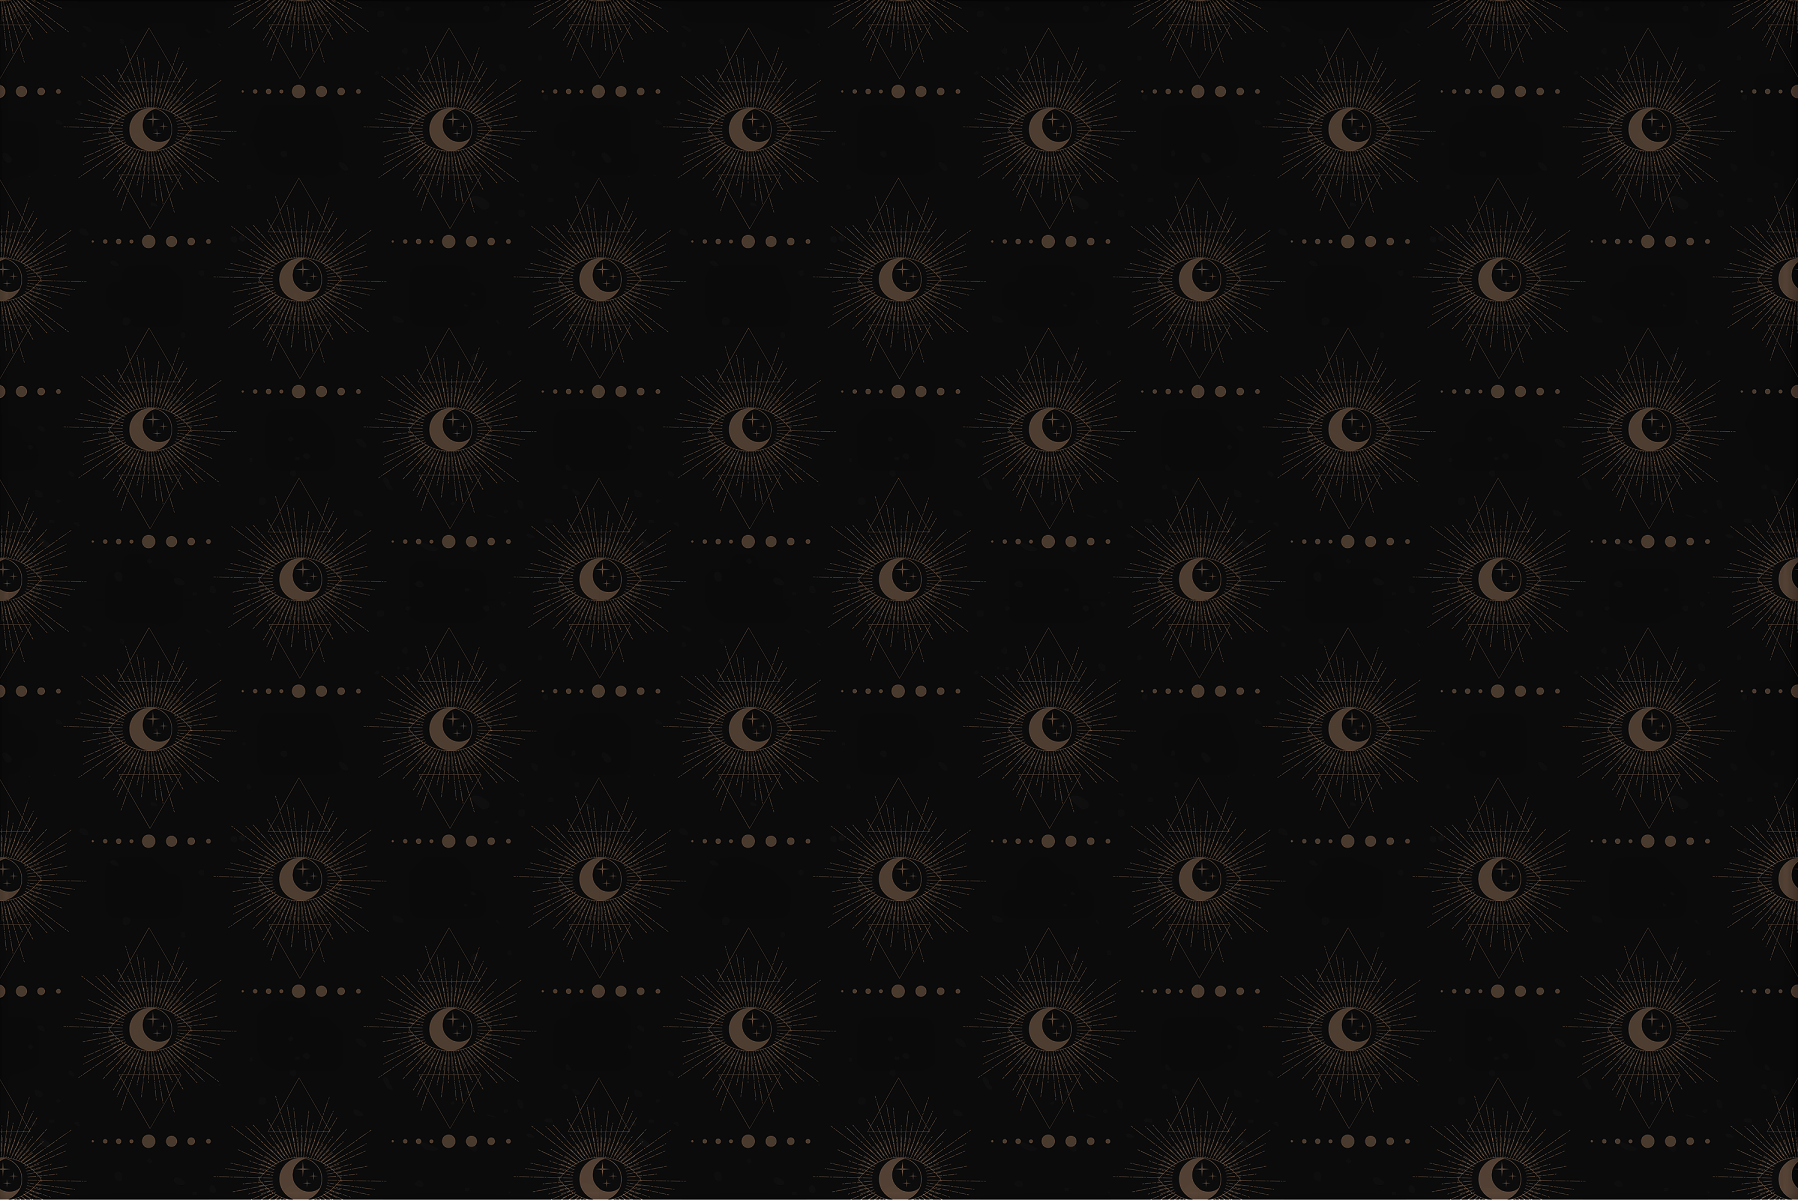
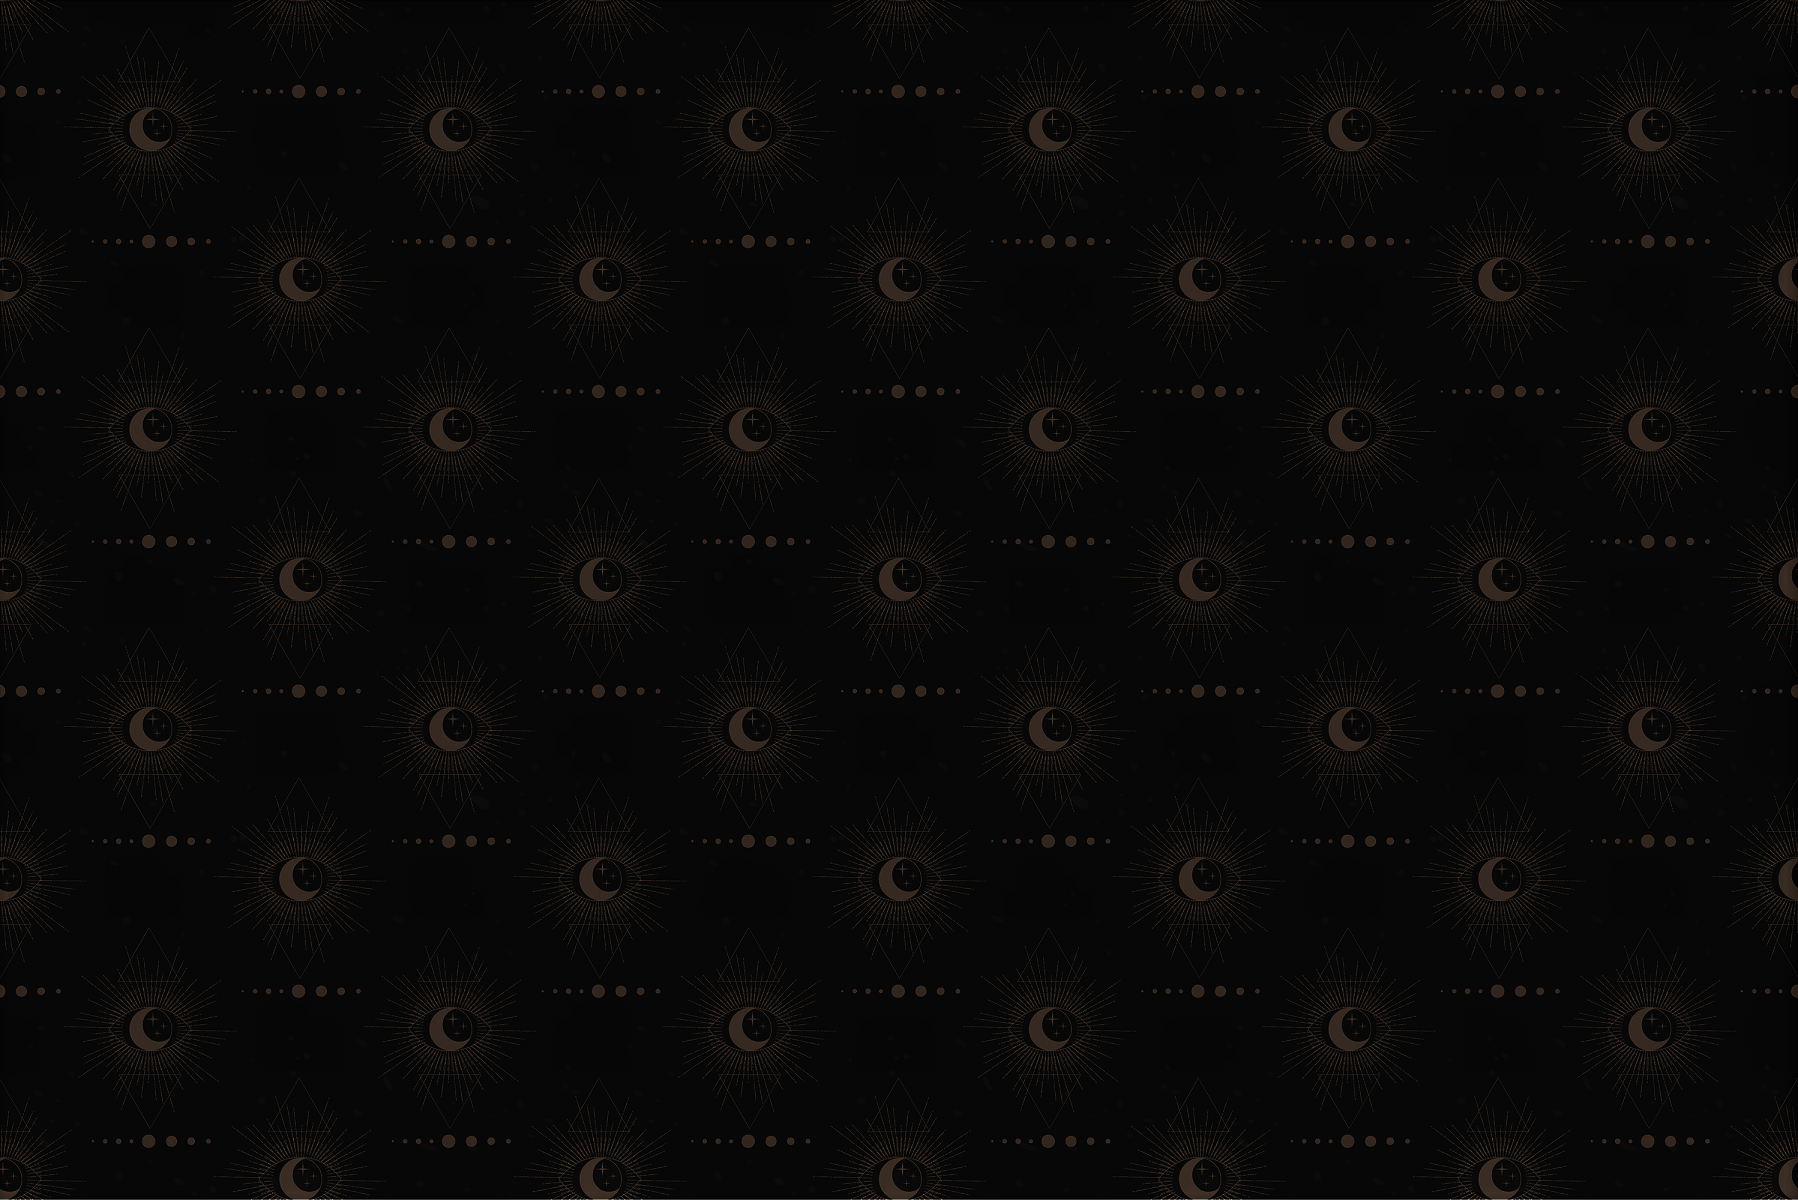
Se reemplaza can/cant por about y se oscurece fondo para resaltar mejor el texto

diff --git a/pages/about.html b/pages/about.html
@@ -9,12 +9,12 @@
         <meta name="viewport" content="width=device-width, initial-scale=1.0">
     
         <link rel="stylesheet" href="../css/main.css">
-        <title>Can/Can't</title>
+        <title>About</title>
     </head>
 
     <body>
 
-        <div class="ccHome">
+        <div class="aHome">
 
             <nav class="nav">
 
@@ -29,11 +29,11 @@
                     </li>
 
                     <li>
-                        <a href="rates.html" class="menuBut"> Rates </a>
+                        <p class="here"> About </p>
                     </li>
-        
+                    
                     <li>
-                        <p class="here"> Can/Can't </p>
+                        <a href="rates.html" class="menuBut"> Rates </a>
                     </li>
         
                     <li>
@@ -50,38 +50,11 @@
 
             </nav>
 
+            <main>
 
-            <div class="ccYES">
+                <h1 class="title">What is Månhäxa?</h1>
 
-                <h1 class="title">Can do</h1>
-
-                <ul>
-
-                    <li>
-                        <p>Realistic</p>
-                    </li>
-
-
-                </ul>
-
-            </div>
-
-
-            <div class="ccNO">
-
-                <h1 class="title">Can't do</h1>
-
-                <ul>
-
-                    <li>
-                        <p>Bara</p>
-                    </li>
-
-
-                </ul>
-
-            </div>
-
+            </main>
 
             <footer class="footer">
 

diff --git a/css/main.css b/css/main.css
@@ -213,6 +213,26 @@ hr {
 
 
 /* ////////////////////////////////////// */
+/* /////////////// ABOUT //////////////// */
+/* ///////////////////////////////////// */
+
+/* AUN NO SE SI HARE UN GRID O FLEX */
+
+.aHome{
+    display: flex;
+    flex-direction: column;
+    background: rgba(0, 0, 0, 0.747);
+    padding: 32px 2.875rem;
+    border-radius: 20px;
+    margin: 30px 610px 128px 610px;
+
+}     
+
+
+
+
+
+/* ////////////////////////////////////// */
 /* /////////////// RATES /////////////// */
 /* ///////////////////////////////////// */
 
@@ -313,44 +333,6 @@ hr {
     font-size: 19px;
 }
 
-
-
-/* ////////////////////////////////////// */
-/* ///////////////// CC ///////////////// */
-/* ///////////////////////////////////// */
-
-
-.ccHome{
-    display: grid;
-    grid-template-areas:
-    'nav nav'
-    'item1 item2'
-    'bottom bottom'
-    'footer footer';
-    background: rgba(0, 0, 0, 0.747);
-    padding: 32px 2.875rem;
-    border-radius: 20px;
-    margin: 30px 610px 128px 610px;
-
-}     
-
-.ccYES{
-    grid-area: item1;
-    color: #b6b0a9;
-    font-size: 19px;
-}
-
-.ccNO{
-    grid-area: item2;
-    color: #b6b0a9;
-    font-size: 19px;
-}
-
-
-.ccBottom{ 
-    grid-area: bottom; 
-
-}
 
 /* ////////////////////////////////////// */
 /* //////////////// SHIP //////////////// */

diff --git a/index.html b/index.html
@@ -24,7 +24,7 @@
 
     <body>
         
-        <div class="home">
+        <main class="home">
 
             <header>
 
@@ -40,12 +40,13 @@
             <nav> 
 
                 <ul class="button">
+
+                    <li>
+                        <a href="pages/about.html" class="pages"> About me </a>
+                    </li>
+
                     <li>
                         <a href="pages/rates.html" class="pages"> Rates </a>
-                    </li>
-        
-                    <li>
-                        <a href="pages/cc.html" class="pages"> Can/Can't </a>
                     </li>
         
                     <li>
@@ -115,7 +116,7 @@
 
               </footer>
 
-        </div>
+        </main>
 
     </body>
 

diff --git a/pages/ship.html b/pages/ship.html
@@ -29,13 +29,13 @@
                     </li>
 
                     <li>
+                        <a href="about.html" class="menuBut"> About </a>
+                    </li>
+
+                    <li>
                         <a href="rates.html" class="menuBut"> Rates </a>
                     </li>
-        
-                    <li>
-                        <a href="cc.html" class="menuBut"> Can/Can't </a>
-                    </li>
-        
+
                     <li>
                         <p class="here"> Shipping </p>
                     </li>

diff --git a/pages/how.html b/pages/how.html
@@ -29,11 +29,11 @@
                     </li>
 
                     <li>
-                        <a href="rates.html" class="menuBut"> Rates </a>
+                        <a href="about.html" class="menuBut"> About </a>
                     </li>
-        
+
                     <li>
-                        <a href="cc.html" class="menuBut"> Can/Can't </a>
+                        <a href="rates.html" class="menuBut"> Rates </a>
                     </li>
         
                     <li>

diff --git a/pages/rates.html b/pages/rates.html
@@ -29,11 +29,11 @@
                     </li>
 
                     <li>
-                        <p class="here"> Rates </p>
+                        <a href="about.html" class="menuBut"> About </a>
                     </li>
-        
+                    
                     <li>
-                        <a href="cc.html" class="menuBut"> Can/Can't </a>
+                        <p class="here"> Rates </p>
                     </li>
         
                     <li>
